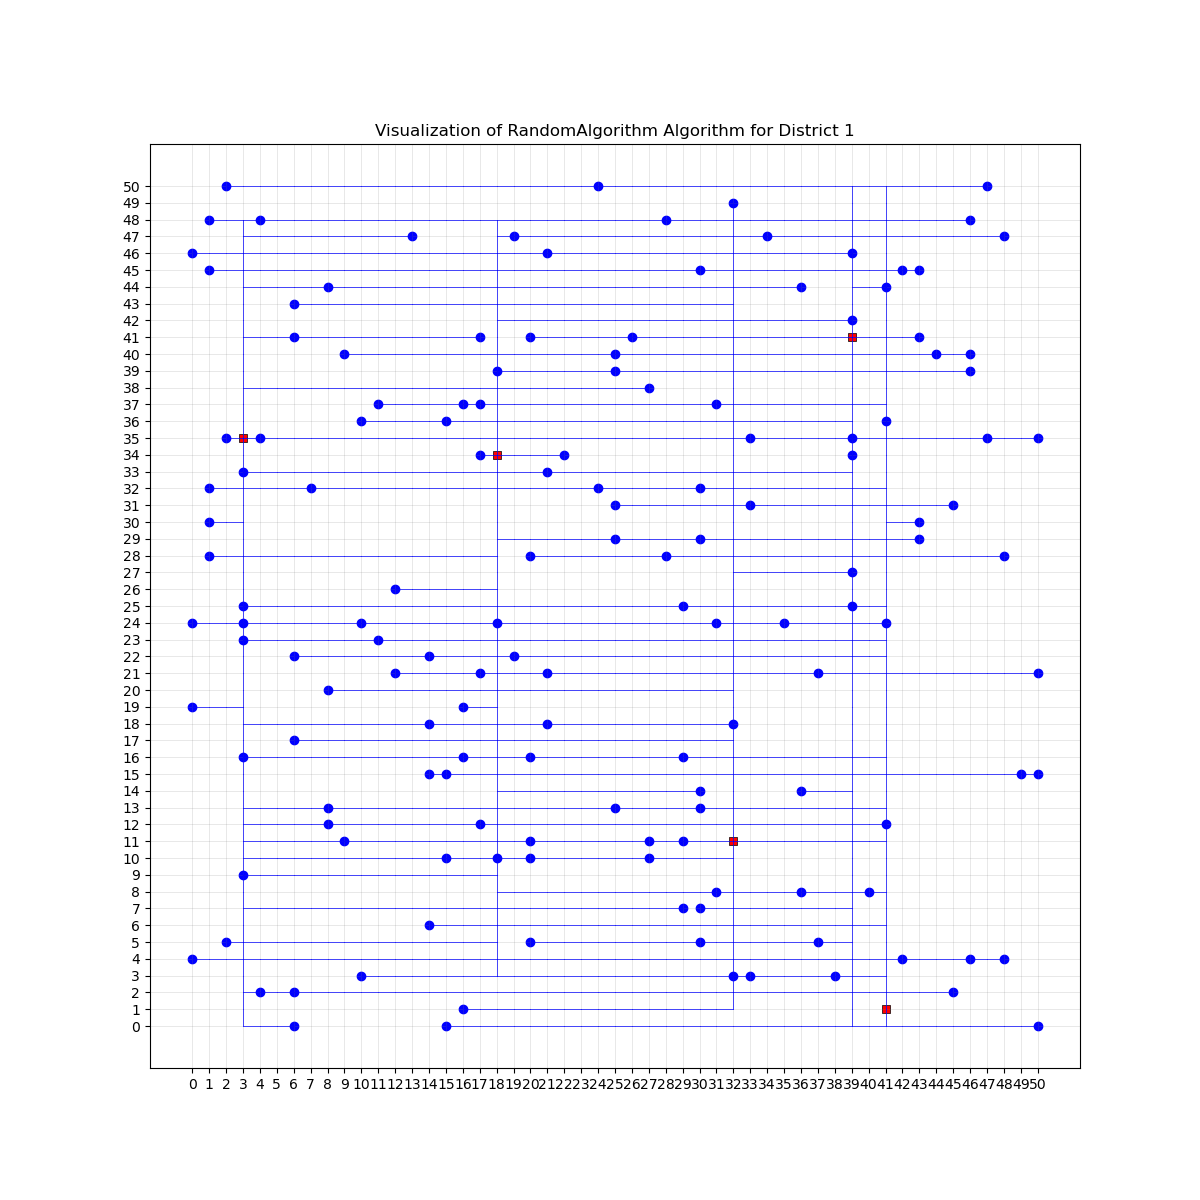
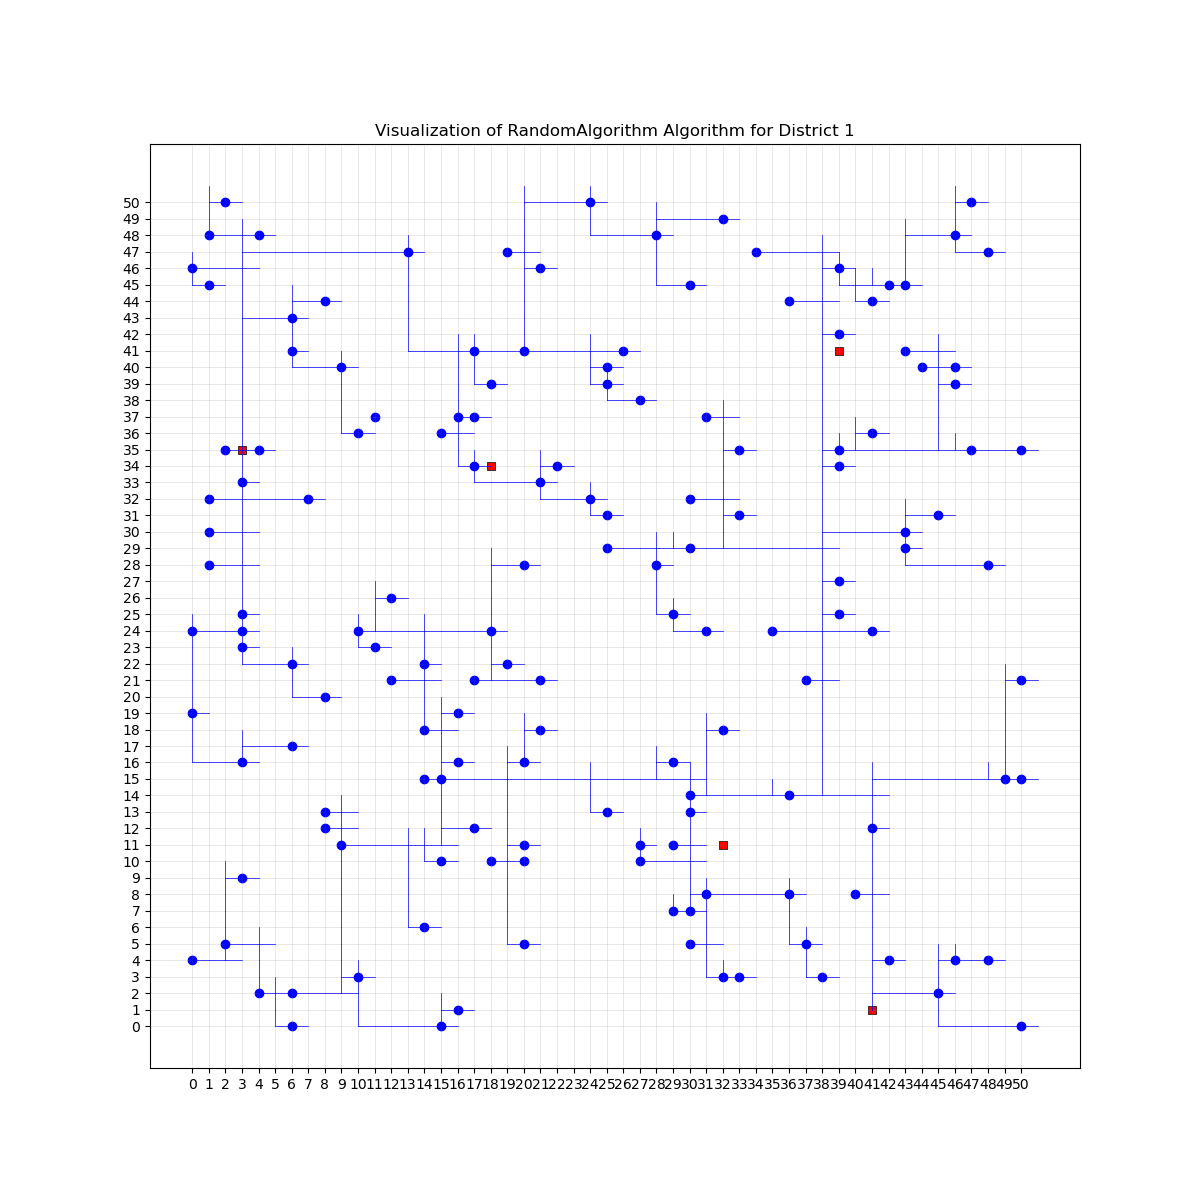
Added a cable connector method

diff --git a/code/algorithm/random_alg.py b/code/algorithm/random_alg.py
@@ -40,13 +40,24 @@ class RandomAlgorithm:
             if not connected:
                 print(f"House at ({house.x}, {house.y}) could not be connected to any battery.")
 
+    
     def place_cables(self, house, battery):
-        # Align on the x-axis
-        for x in range(min(house.x, battery.x), max(house.x, battery.x)):
-            # Correctly passing the start and end coordinates for each cable segment
-            self.experiment.place_cables(x, house.y, x + 1, house.y)
+        closest_cable, cable_distance = self.experiment.find_closest_cable(house)
+        battery_distance = abs(house.x - battery.x) + abs(house.y - battery.y)
 
-        # Align on the y-axis
-        for y in range(min(house.y, battery.y), max(house.y, battery.y)):
-            # Correctly passing the start and end coordinates for each cable segment
-            self.experiment.place_cables(battery.x, y, battery.x, y + 1)
+        if cable_distance < battery_distance:
+            # Connect to the closest cable segment instead of directly to the battery.
+            # Let's assume the closest cable segment is horizontal for simplicity.
+            for x in range(min(house.x, closest_cable.start_x), max(house.x, closest_cable.start_x) + 1):
+                self.experiment.place_cables(x, house.y, x + 1, house.y)
+            # Now connect vertically to the actual closest cable point.
+            for y in range(min(house.y, closest_cable.start_y), max(house.y, closest_cable.start_y) + 1):
+                self.experiment.place_cables(closest_cable.start_x, y, closest_cable.start_x, y + 1)
+        else:
+            # Connect directly to the battery, same as before.
+            # Align on the x-axis
+            for x in range(min(house.x, battery.x), max(house.x, battery.x) + 1):
+                self.experiment.place_cables(x, house.y, x + 1, house.y)
+            # Align on the y-axis
+            for y in range(min(house.y, battery.y), max(house.y, battery.y) + 1):
+                self.experiment.place_cables(battery.x, y, battery.x, y + 1)

diff --git a/code/classes/district.py b/code/classes/district.py
@@ -53,6 +53,30 @@ class District:
 
     def find_nearest_battery(self, house):
         return min(self.batteries, key=lambda battery: abs(battery.x - house.x) + abs(battery.y - house.y))
+    
+    
+    def find_closest_cable(self, house):
+        """Finds the closest cable to house"""
+        closest_cable = None
+        min_distance = float('inf')
+
+        # Find closest cable.
+        for cable in self.cables:
+            # Check distance from the house to the cable's endpoints
+            distances = [
+                abs(house.x - cable.start_x) + abs(house.y - cable.start_y),
+                abs(house.x - cable.end_x) + abs(house.y - cable.end_y)
+            ]
+            
+            # Find the minimum distance for this cable
+            distance = min(distances)
+            
+            # If this is the shortest distance update closest_cable and min_distance
+            if distance < min_distance:
+                min_distance = distance
+                closest_cable = cable
+
+        return closest_cable, min_distance
 
     def place_cables(self, start_x, start_y, end_x, end_y):
         new_cable = Cable(start_x, start_y, end_x, end_y)
